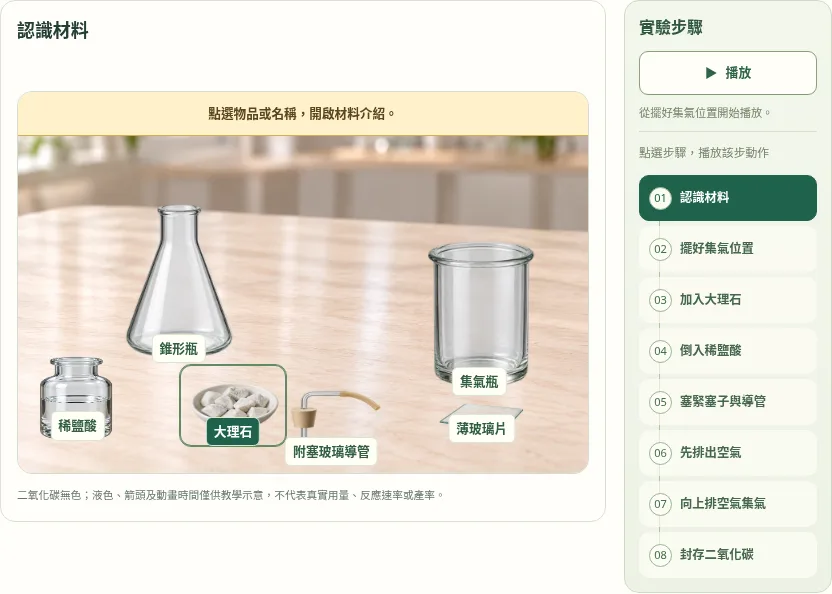
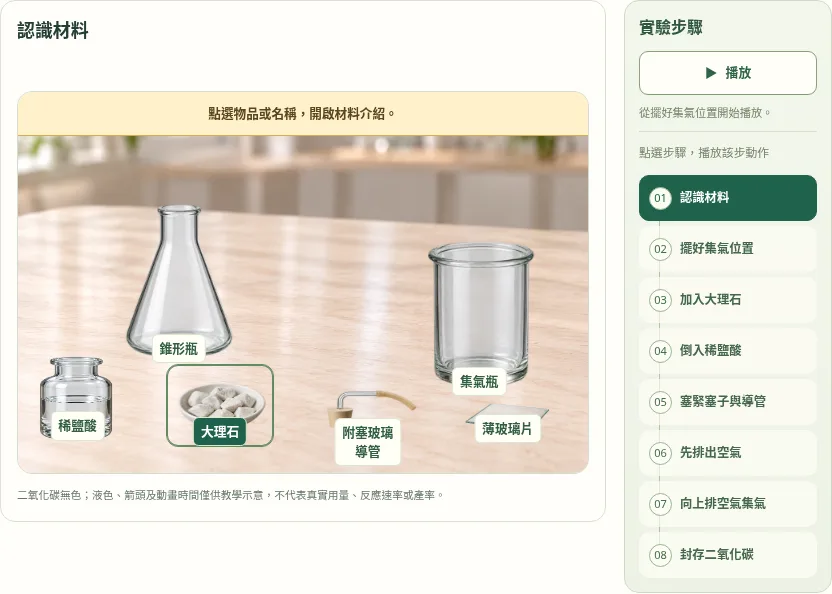
避免二氧化碳材料標籤在窄螢幕互相遮擋

Changed region(s): [[0.1875, 0.6061, 0.5, 0.7879], [0.5312, 0.6667, 0.6562, 0.7576]]

diff --git a/units/2/parts/2.3/index.html b/units/2/parts/2.3/index.html
@@ -299,7 +299,7 @@
 </dl>
 </aside><div class="properties-collected-note"><b>這一區收集的樣本：氧氣</b><p>在水下蓋好集氣瓶，將樣本標示清楚。</p></div></div></section><section class="lesson gas-lesson co2-lesson" id="s4" aria-labelledby="title-4"><header class="lesson-head"><span class="lesson-number">04</span><div><h2 id="title-4">大理石遇上稀鹽酸，怎麼收集產生的氣體？</h2><p class="lesson-role">二氧化碳實驗：製備與收集</p></div></header>
 <div class="lesson-body"><div class="dialogue xiaokui dialogue--xiaokui"><span class="speaker"><span class="visually-hidden">小葵</span></span><p>收集氧氣用了水，二氧化碳也要用一樣的方法嗎？</p></div><div class="dialogue grandpa"><span class="speaker"><span class="visually-hidden">阿公</span></span><p>這次用大理石和稀鹽酸製氣，再用直立的集氣瓶收集。看看原有的空氣從哪裡離開。</p></div>
-<div class="gas-sequence co2-preparation" data-replay="co2" data-stage="0" data-state="ready"><div class="co2-workspace"><div class="co2-stage-area"><div class="co2-panels" id="co2-operation-scenes"><div class="co2-step" id="co2-step-0" data-co2-panel="0"><header class="co2-step-head"><h3>認識材料</h3></header><figure class="co2-materials-view"><p class="co2-equipment-help">點選物品或名稱，開啟材料介紹。</p><div class="co2-material-scene"><button type="button" data-co2-material="marble" style="--bench-col:0;--bench-row:0;--bench-mobile-col:0;--bench-mobile-row:0" aria-pressed="false" aria-controls="co2-equipment-dialog" aria-haspopup="dialog" aria-expanded="false" aria-label="大理石：介紹與實驗用途" disabled><img src="assets/co2-marble.webp" alt="" width="440" height="440"><span>大理石</span></button><button type="button" data-co2-material="acid" style="--bench-col:1;--bench-row:0;--bench-mobile-col:1;--bench-mobile-row:0" aria-pressed="false" aria-controls="co2-equipment-dialog" aria-haspopup="dialog" aria-expanded="false" aria-label="稀鹽酸：介紹與實驗用途" disabled><img src="assets/co2-acid.webp" alt="" width="440" height="440"><span>稀鹽酸</span></button><button type="button" data-co2-material="flask" style="--bench-col:2;--bench-row:0;--bench-mobile-col:0;--bench-mobile-row:1" aria-pressed="false" aria-controls="co2-equipment-dialog" aria-haspopup="dialog" aria-expanded="false" aria-label="錐形瓶：介紹與實驗用途" disabled><img src="assets/co2-flask.webp" alt="" width="440" height="440"><span>錐形瓶</span></button><button type="button" data-co2-material="jar" style="--bench-col:0;--bench-row:1;--bench-mobile-col:1;--bench-mobile-row:1" aria-pressed="false" aria-controls="co2-equipment-dialog" aria-haspopup="dialog" aria-expanded="false" aria-label="集氣瓶：介紹與實驗用途" disabled><img src="assets/co2-jar.webp" alt="" width="440" height="440"><span>集氣瓶</span></button><button type="button" data-co2-material="tube" style="--bench-col:1;--bench-row:1;--bench-mobile-col:0;--bench-mobile-row:2" aria-pressed="false" aria-controls="co2-equipment-dialog" aria-haspopup="dialog" aria-expanded="false" aria-label="附塞玻璃導管：介紹與實驗用途" disabled><img src="assets/co2-tube.webp" alt="" width="440" height="440"><span>附塞玻璃導管</span></button><button type="button" data-co2-material="plate" style="--bench-col:2;--bench-row:1;--bench-mobile-col:1;--bench-mobile-row:2" aria-pressed="false" aria-controls="co2-equipment-dialog" aria-haspopup="dialog" aria-expanded="false" aria-label="薄玻璃片：介紹與實驗用途" disabled><img src="assets/co2-plate.webp" alt="" width="440" height="440"><span>薄玻璃片</span></button></div><div class="co2-material-details"><article id="co2-info-marble" data-co2-info="marble" aria-labelledby="co2-name-marble"><h4 id="co2-name-marble">大理石</h4><dl><div><dt>這是什麼</dt><dd>含碳酸鈣的岩石，本例以白色碎塊呈現。</dd></div><div><dt>實驗中的作用</dt><dd>放入錐形瓶，與稀鹽酸接觸後產生二氧化碳。</dd></div></dl></article><article id="co2-info-acid" data-co2-info="acid" aria-labelledby="co2-name-acid"><h4 id="co2-name-acid">稀鹽酸</h4><dl><div><dt>這是什麼</dt><dd>鹽酸的稀水溶液，外觀無色。</dd></div><div><dt>實驗中的作用</dt><dd>倒入裝有大理石的錐形瓶，讓兩者接觸後產生二氧化碳。</dd></div></dl></article><article id="co2-info-flask" data-co2-info="flask" aria-labelledby="co2-name-flask"><h4 id="co2-name-flask">錐形瓶</h4><dl><div><dt>這是什麼</dt><dd>底部較寬、瓶口較窄的玻璃容器。</dd></div><div><dt>實驗中的作用</dt><dd>容納大理石與稀鹽酸的反應。接好塞子後，氣體由液面上方進入導管。</dd></div></dl></article><article id="co2-info-jar" data-co2-info="jar" aria-labelledby="co2-name-jar"><h4 id="co2-name-jar">集氣瓶</h4><dl><div><dt>這是什麼</dt><dd>用來收集並保存氣體的玻璃瓶。</dd></div><div><dt>實驗中的作用</dt><dd>本例不先裝水，瓶口朝上；導管靠近瓶底，讓原有空氣由上方離開。</dd></div></dl></article><article id="co2-info-tube" data-co2-info="tube" aria-labelledby="co2-name-tube"><h4 id="co2-name-tube">附塞玻璃導管</h4><dl><div><dt>這是什麼</dt><dd>與塞子相連、出入口保持暢通的導氣管路。</dd></div><div><dt>實驗中的作用</dt><dd>塞住錐形瓶口以引導氣體。先在集氣瓶外排氣，再將出口移至集氣瓶底部附近。</dd></div></dl></article><article id="co2-info-plate" data-co2-info="plate" aria-labelledby="co2-name-plate"><h4 id="co2-name-plate">薄玻璃片</h4><dl><div><dt>這是什麼</dt><dd>用來蓋住集氣瓶口的平整玻璃片。</dd></div><div><dt>實驗中的作用</dt><dd>收集完成先撤出導管，再蓋住瓶口，減少樣本與外界空氣混合；瓶口保持朝上並標示樣本。</dd></div></dl></article></div></figure><div class="co2-reading"><dl class="co2-explanation"><div><dt>怎麼做</dt><dd>辨認大理石、稀鹽酸與四件器材；集氣瓶保持直立，不先裝水。</dd></div><div><dt>為什麼</dt><dd>不同物品各有作用。這次用大理石與稀鹽酸製氣，不使用雙氧水或二氧化錳，也不需要水槽。</dd></div></dl><p class="co2-reminder">提醒：圖片供辨認器材，實際實驗由教師指導；不提供藥品劑量。</p></div></div><div class="co2-step" id="co2-step-1" data-co2-panel="1"><header class="co2-step-head"><h3>擺好集氣位置</h3><p>把錐形瓶與直立集氣瓶移到工作位置，其餘材料先留在桌邊。</p></header><figure class="co2-apparatus"><p class="co2-equipment-help">點選圖中的器材，查看介紹與本步用途。</p><div class="co2-drawing oxygen-drawing"><div class="co2-scene-viewport"><svg class="co2-main-scene" viewBox="0 0 1100 650" role="img" aria-label="從擺放器材到開始產氣的器材示意" xmlns="http://www.w3.org/2000/svg"><title>從擺放器材到開始產氣</title><defs>
+<div class="gas-sequence co2-preparation" data-replay="co2" data-stage="0" data-state="ready"><div class="co2-workspace"><div class="co2-stage-area"><div class="co2-panels" id="co2-operation-scenes"><div class="co2-step" id="co2-step-0" data-co2-panel="0"><header class="co2-step-head"><h3>認識材料</h3></header><figure class="co2-materials-view"><p class="co2-equipment-help">點選物品或名稱，開啟材料介紹。</p><div class="co2-material-scene"><button type="button" data-co2-material="marble" style="--bench-col:0;--bench-row:0;--bench-mobile-col:0;--bench-mobile-row:0" aria-pressed="false" aria-controls="co2-equipment-dialog" aria-haspopup="dialog" aria-expanded="false" aria-label="大理石：介紹與實驗用途" disabled><img src="assets/co2-marble.webp" alt="" width="440" height="440"><span>大理石</span></button><button type="button" data-co2-material="acid" style="--bench-col:1;--bench-row:0;--bench-mobile-col:1;--bench-mobile-row:0" aria-pressed="false" aria-controls="co2-equipment-dialog" aria-haspopup="dialog" aria-expanded="false" aria-label="稀鹽酸：介紹與實驗用途" disabled><img src="assets/co2-acid.webp" alt="" width="440" height="440"><span>稀鹽酸</span></button><button type="button" data-co2-material="flask" style="--bench-col:2;--bench-row:0;--bench-mobile-col:0;--bench-mobile-row:1" aria-pressed="false" aria-controls="co2-equipment-dialog" aria-haspopup="dialog" aria-expanded="false" aria-label="錐形瓶：介紹與實驗用途" disabled><img src="assets/co2-flask.webp" alt="" width="440" height="440"><span>錐形瓶</span></button><button type="button" data-co2-material="jar" style="--bench-col:0;--bench-row:1;--bench-mobile-col:1;--bench-mobile-row:1" aria-pressed="false" aria-controls="co2-equipment-dialog" aria-haspopup="dialog" aria-expanded="false" aria-label="集氣瓶：介紹與實驗用途" disabled><img src="assets/co2-jar.webp" alt="" width="440" height="440"><span>集氣瓶</span></button><button type="button" data-co2-material="tube" style="--bench-col:1;--bench-row:1;--bench-mobile-col:0;--bench-mobile-row:2" aria-pressed="false" aria-controls="co2-equipment-dialog" aria-haspopup="dialog" aria-expanded="false" aria-label="附塞玻璃導管：介紹與實驗用途" disabled><img src="assets/co2-tube.webp" alt="" width="440" height="440"><span>附塞玻璃<wbr>導管</span></button><button type="button" data-co2-material="plate" style="--bench-col:2;--bench-row:1;--bench-mobile-col:1;--bench-mobile-row:2" aria-pressed="false" aria-controls="co2-equipment-dialog" aria-haspopup="dialog" aria-expanded="false" aria-label="薄玻璃片：介紹與實驗用途" disabled><img src="assets/co2-plate.webp" alt="" width="440" height="440"><span>薄玻璃片</span></button></div><div class="co2-material-details"><article id="co2-info-marble" data-co2-info="marble" aria-labelledby="co2-name-marble"><h4 id="co2-name-marble">大理石</h4><dl><div><dt>這是什麼</dt><dd>含碳酸鈣的岩石，本例以白色碎塊呈現。</dd></div><div><dt>實驗中的作用</dt><dd>放入錐形瓶，與稀鹽酸接觸後產生二氧化碳。</dd></div></dl></article><article id="co2-info-acid" data-co2-info="acid" aria-labelledby="co2-name-acid"><h4 id="co2-name-acid">稀鹽酸</h4><dl><div><dt>這是什麼</dt><dd>鹽酸的稀水溶液，外觀無色。</dd></div><div><dt>實驗中的作用</dt><dd>倒入裝有大理石的錐形瓶，讓兩者接觸後產生二氧化碳。</dd></div></dl></article><article id="co2-info-flask" data-co2-info="flask" aria-labelledby="co2-name-flask"><h4 id="co2-name-flask">錐形瓶</h4><dl><div><dt>這是什麼</dt><dd>底部較寬、瓶口較窄的玻璃容器。</dd></div><div><dt>實驗中的作用</dt><dd>容納大理石與稀鹽酸的反應。接好塞子後，氣體由液面上方進入導管。</dd></div></dl></article><article id="co2-info-jar" data-co2-info="jar" aria-labelledby="co2-name-jar"><h4 id="co2-name-jar">集氣瓶</h4><dl><div><dt>這是什麼</dt><dd>用來收集並保存氣體的玻璃瓶。</dd></div><div><dt>實驗中的作用</dt><dd>本例不先裝水，瓶口朝上；導管靠近瓶底，讓原有空氣由上方離開。</dd></div></dl></article><article id="co2-info-tube" data-co2-info="tube" aria-labelledby="co2-name-tube"><h4 id="co2-name-tube">附塞玻璃導管</h4><dl><div><dt>這是什麼</dt><dd>與塞子相連、出入口保持暢通的導氣管路。</dd></div><div><dt>實驗中的作用</dt><dd>塞住錐形瓶口以引導氣體。先在集氣瓶外排氣，再將出口移至集氣瓶底部附近。</dd></div></dl></article><article id="co2-info-plate" data-co2-info="plate" aria-labelledby="co2-name-plate"><h4 id="co2-name-plate">薄玻璃片</h4><dl><div><dt>這是什麼</dt><dd>用來蓋住集氣瓶口的平整玻璃片。</dd></div><div><dt>實驗中的作用</dt><dd>收集完成先撤出導管，再蓋住瓶口，減少樣本與外界空氣混合；瓶口保持朝上並標示樣本。</dd></div></dl></article></div></figure><div class="co2-reading"><dl class="co2-explanation"><div><dt>怎麼做</dt><dd>辨認大理石、稀鹽酸與四件器材；集氣瓶保持直立，不先裝水。</dd></div><div><dt>為什麼</dt><dd>不同物品各有作用。這次用大理石與稀鹽酸製氣，不使用雙氧水或二氧化錳，也不需要水槽。</dd></div></dl><p class="co2-reminder">提醒：圖片供辨認器材，實際實驗由教師指導；不提供藥品劑量。</p></div></div><div class="co2-step" id="co2-step-1" data-co2-panel="1"><header class="co2-step-head"><h3>擺好集氣位置</h3><p>把錐形瓶與直立集氣瓶移到工作位置，其餘材料先留在桌邊。</p></header><figure class="co2-apparatus"><p class="co2-equipment-help">點選圖中的器材，查看介紹與本步用途。</p><div class="co2-drawing oxygen-drawing"><div class="co2-scene-viewport"><svg class="co2-main-scene" viewBox="0 0 1100 650" role="img" aria-label="從擺放器材到開始產氣的器材示意" xmlns="http://www.w3.org/2000/svg"><title>從擺放器材到開始產氣</title><defs>
  <linearGradient id="co2-liquid-1" x2="0" y2="1"><stop stop-color="#c3d9dc" stop-opacity=".45"/><stop offset="1" stop-color="#d1e3e3" stop-opacity=".18"/></linearGradient>
  <linearGradient id="co2-cork-1" x2="0" y2="1"><stop stop-color="#d8c095"/><stop offset="1" stop-color="#a18a60"/></linearGradient>
  <clipPath id="co2-flask-clip-1"><path d="M276 208H325V324L427 550Q437 586 300 586Q163 586 173 550L276 324Z"/></clipPath>

diff --git a/units/2/parts/2.3/assets/co2.css b/units/2/parts/2.3/assets/co2.css
@@ -169,6 +169,8 @@
 #s4 .co2-closeup{flex:0 0 auto}
 @container(max-width:510px){
  #s4 .co2-equipment-help{font-size:.73rem;padding:9px 11px}
- #s4 .co2-preparation[data-ready=true] .co2-material-scene button>span{font-size:.65rem;padding:2px 4px}
+ #s4 .co2-preparation[data-ready=true] .co2-material-scene button>span{font-size:.65rem;padding:2px 3px}
  #s4 .oxygen-caption .co2-scene-note{font-size:.82rem;min-height:7.4em}
 }
+
+@container(max-width:510px){#s4 .co2-preparation[data-ready=true] .co2-material-scene button[data-co2-material=tube]>span{white-space:normal;width:calc(4em + 8px);text-align:center}}

diff --git a/docs/reviews/unit-2.3-co2-format-20261101/review.md b/docs/reviews/unit-2.3-co2-format-20261101/review.md
@@ -20,3 +20,5 @@
 另以正常時間由材料頁按播放，不人工切步，約38.4秒後完成全部操作並顯示正確封存字幕；未捕捉未完成的假時鐘字幕當成果，證據見realtime.log與realtime-complete.png。已目視桌機材料、倒酸、封存及桌機／手機整理與手機集氣近景。瀏覽器操作通過不代表外部驗收，仍第4階段修訂。
 
 此為本機製作紀錄；實際公開發布與公開測試另存k12對應public紀錄。
+
+最後手機目視發現底部標籤過近，已拉開材料初始位置，並讓最長的導管標籤在窄螢幕分兩行。新增五種寬度下全部標籤兩兩不重疊的座標斷言，320px首輪仍重疊的失敗未算通過；修正後21項模型／CO2專項全部通過，見spacing-tests.tap。這21項為原82項的相關重驗，不相加為103項不同測試。
